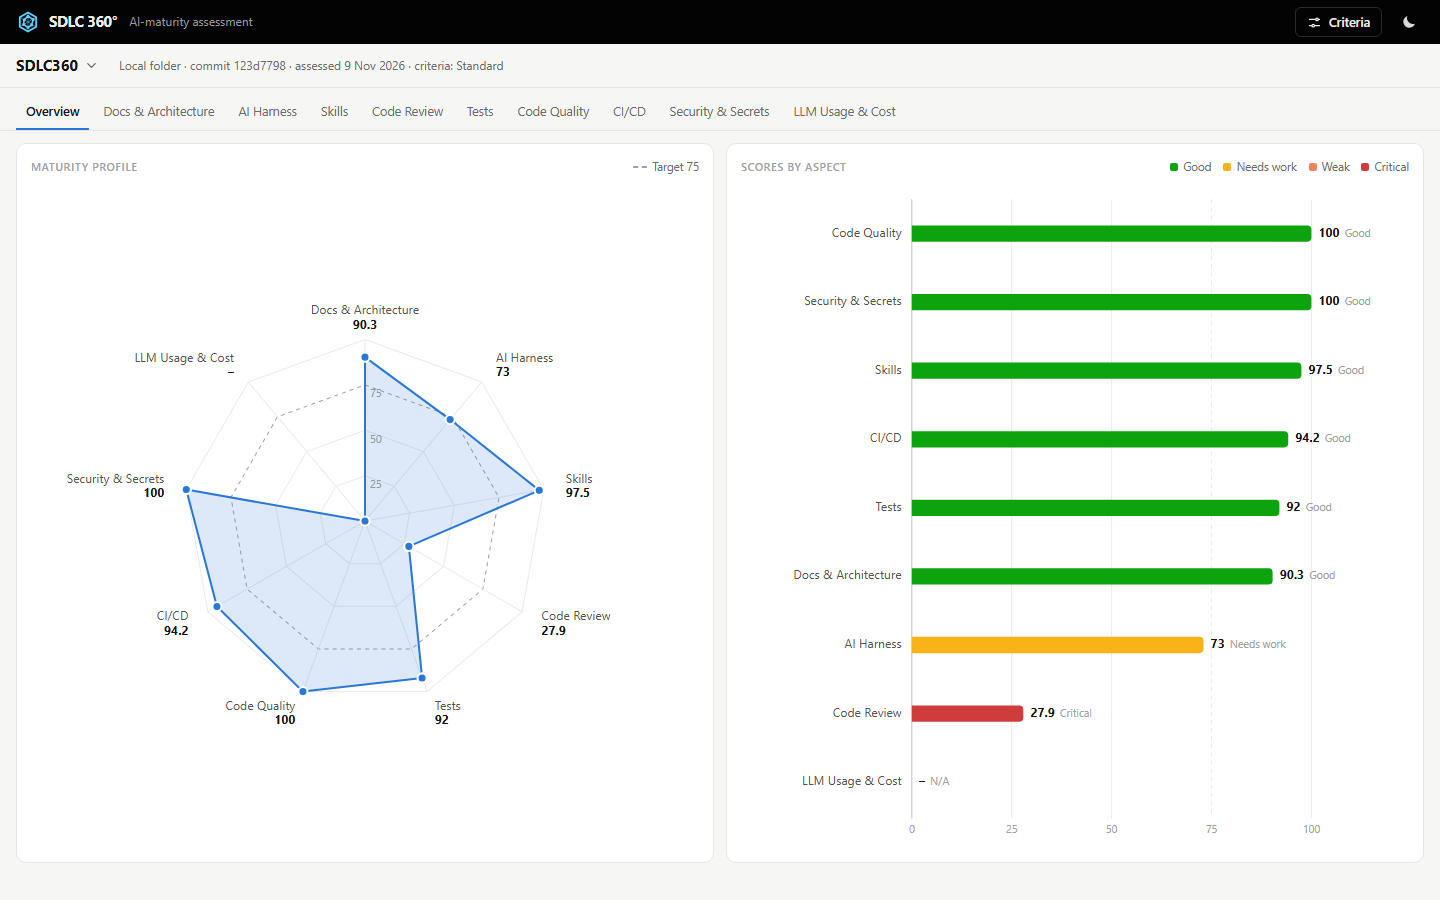
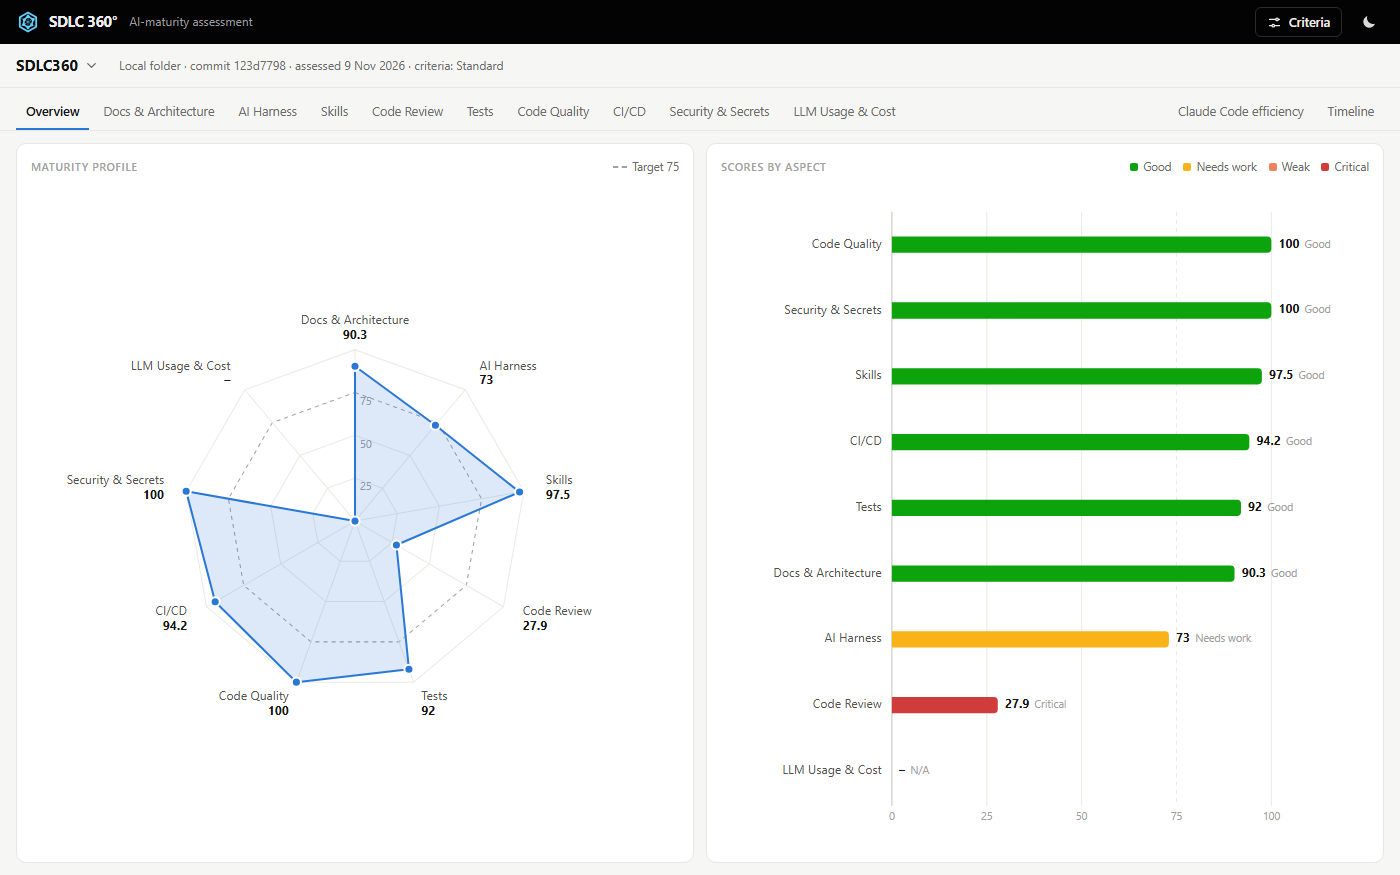
README: value first, theory and practice behind the rules, overview and timeline screenshots

diff --git a/README.md b/README.md
@@ -1,17 +1,53 @@
 # SDLC360
 
-Checks how a git repository (GitHub or local) is run: docs, AI harness, skills, code review, tests, code quality,
-CI/CD, security, LLM cost. Every verdict shows its evidence. No LLM, stdlib-only Python 3.12.
+**Assess your AI-agent readiness.**
 
-## Your journey
+- **360° feedback** on docs and architecture, AI harness, skills, code review, tests, code quality, CI/CD,
+  security and secrets, LLM usage and cost.
+- **Recommendations.** For every gap: what was expected, what was found and the next step to fix it.
+- **Agent efficiency over time.** The cost (tokens, $) and time (minutes) of a typical change by Claude Code,
+  commit by commit, adjusted for change size: see if your project gets easier or harder for the agent.
 
-1. **Start the app:** `./start.sh --open` (http://127.0.0.1:8360/, `./stop.sh` stops it).
-2. **Choose the reference projects:** **Criteria** → **Overview** lists well-run repositories; add your own.
-3. **Calibrate the rules:** the refresh button, then tune the rules that misfire on the reference set and save a profile.
-4. **Assess your project:** **Open a project**, paste a GitHub URL or pick a local folder, press **Assess**.
-5. **Fix and re-assess:** each capability says what was expected, what was found and what to do.
+## How it works
 
-More: [usage](docs/usage.md), [calibration](docs/calibration.md), [architecture](docs/architecture.md),
-[references](assessment/references/README.md), [AGENTS.md](AGENTS.md).
+Rules are taken from industry guides, tested on top open-source projects, and then run on your repository.
 
-![The overview: a maturity radar and the score of each aspect](docs/images/overview.png)
+```mermaid
+flowchart LR
+    T["<b>Theory</b><br/>industry guides"]
+    P["<b>Practice</b><br/>top open-source projects"]
+    R["<b>Rules</b>"]
+    Y["<b>Your project</b>"]
+    V["<b>Recommendations</b>"]
+
+    T --> R
+    P -- "tested on" --> R
+    R -- "check" --> Y --> V
+```
+
+### Theory
+
+- **Anthropic:** Claude Code best practices, context engineering for AI agents
+- **OpenAI:** harness engineering, AGENTS.md
+- **Google / DORA:** the new SDLC with AI agents, State of AI-assisted Software Development 2025
+- **Security:** NIST SSDF for generative AI, OWASP Top 10 for Agentic Applications, OpenSSF Scorecard
+
+### Practice
+
+- **Agent frameworks and SDKs:** Pydantic AI, OpenAI Agents SDK, MCP Python SDK, Claude Agent SDK, smolagents
+- **Mature libraries:** httpx, Rich, Typer, Full Stack FastAPI Template
+
+If a strong project fails a rule, we fix the rule.
+
+## 360-degree view of your project
+
+The score in docs and architecture, AI harness, skills, code review, tests, code quality, CI/CD, security and
+secrets, LLM usage and cost.
+
+![Overview: a maturity radar and the score of each area](docs/images/overview.png)
+
+## Your AI agent over time
+
+Cost and time of a typical change, commit by commit. 100 is where you started; above 100, changes cost more.
+
+![Timeline: the cost and time of a typical change, commit by commit](docs/images/timeline.png)
